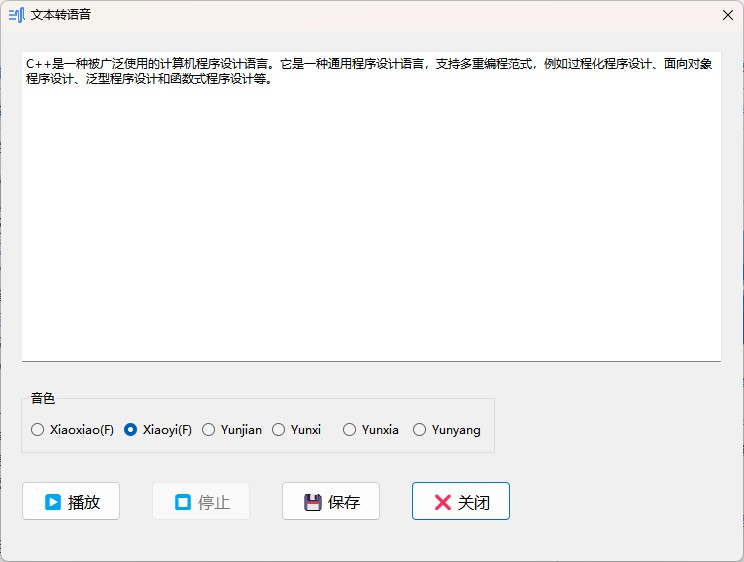
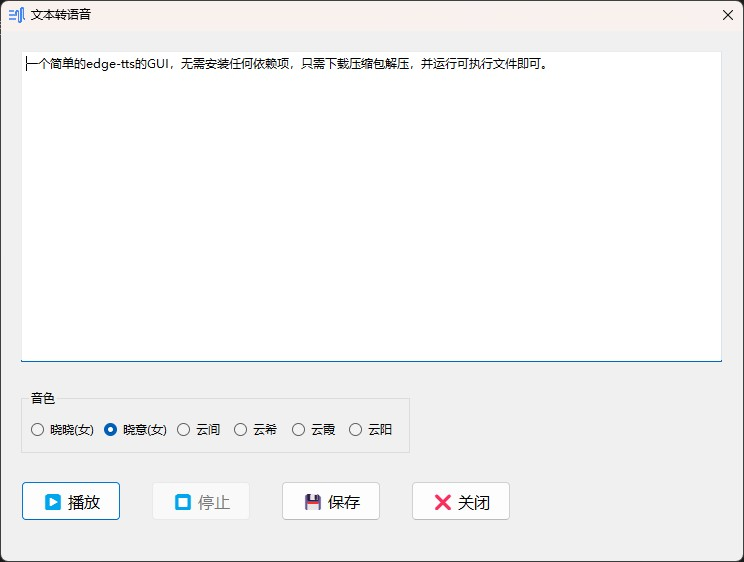
update README and cover.jpg

diff --git a/README.md b/README.md
@@ -1,7 +1,12 @@
 # edge-tts-gui
-A simple GUI for the edge-tts, no need to install any dependencies, just download the executable file and run it.
+一个简单的edge-tts的GUI，无需安装任何依赖项，只需下载压缩包解压，并运行可执行文件即可。
 
-一个简单的edge-tts的GUI，无需安装任何依赖项，只需下载可执行文件并运行。
+快捷键：
+- `Ctrl` + `Enter`：播放
+- `Ctrl` + `S`：保存
+
+全局快捷键：
+- `F9`：快速转换（转换光标选中文本）
 
 ![interface](cover.jpg)
 
